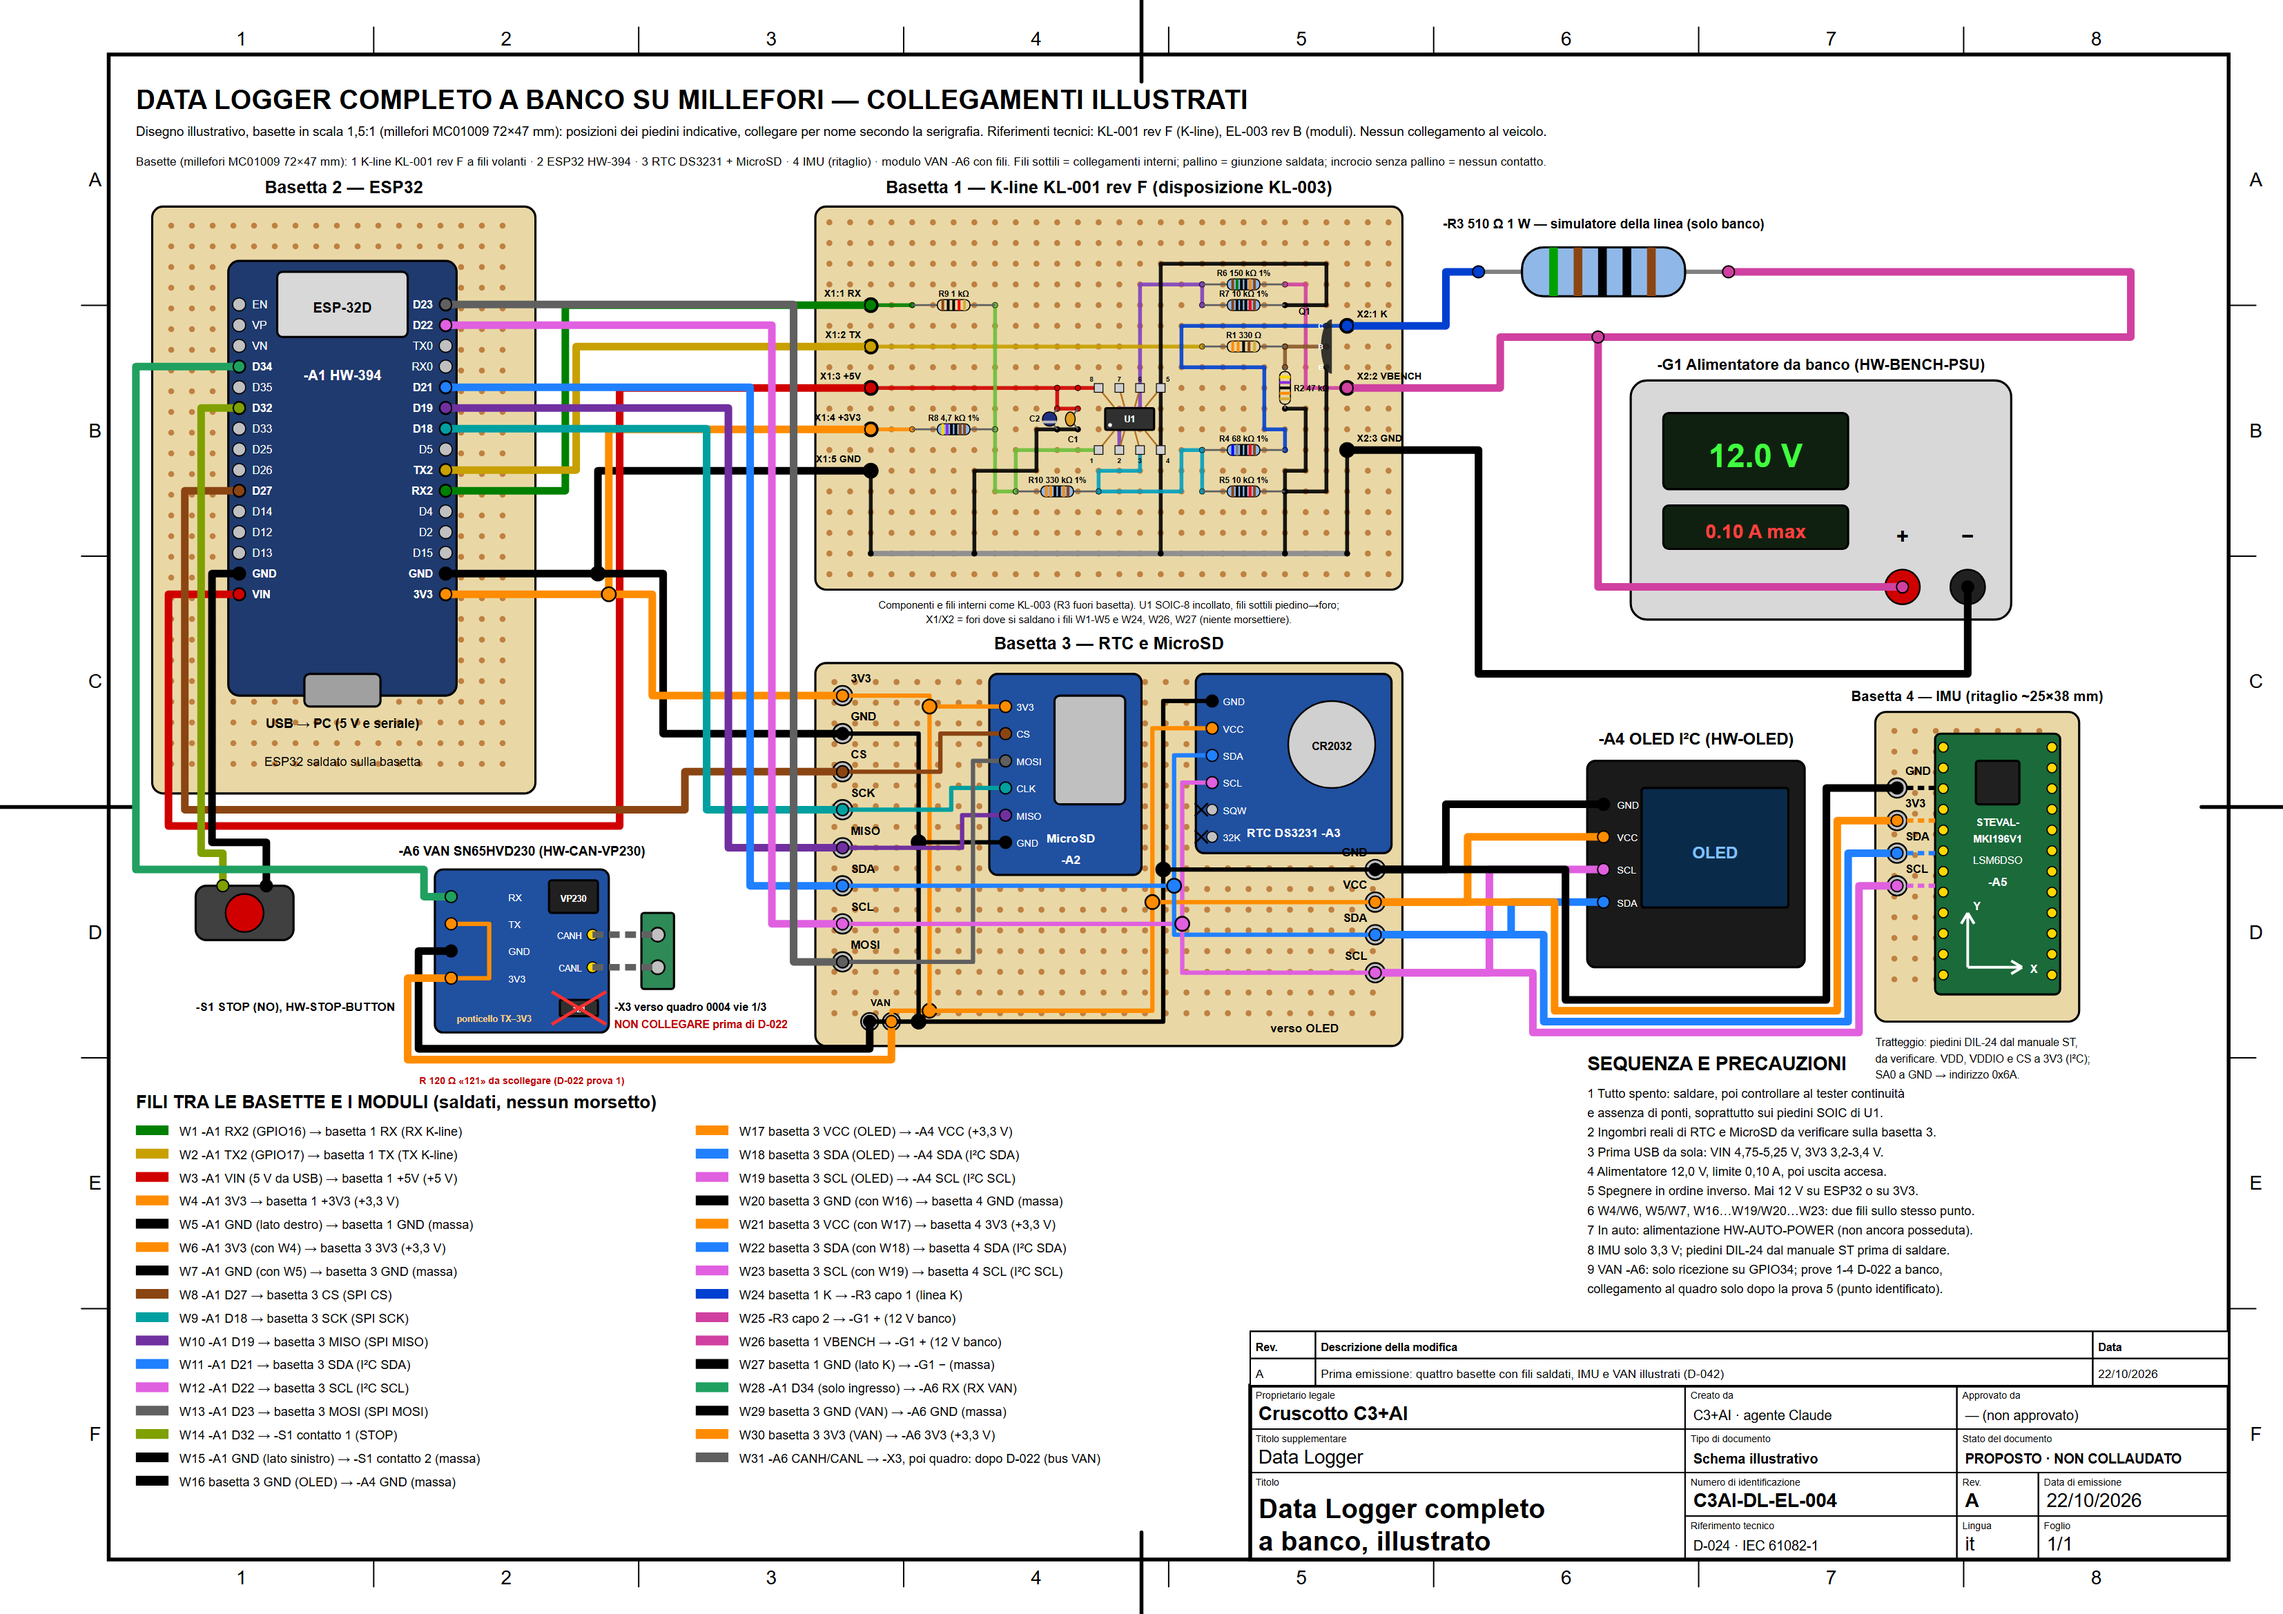
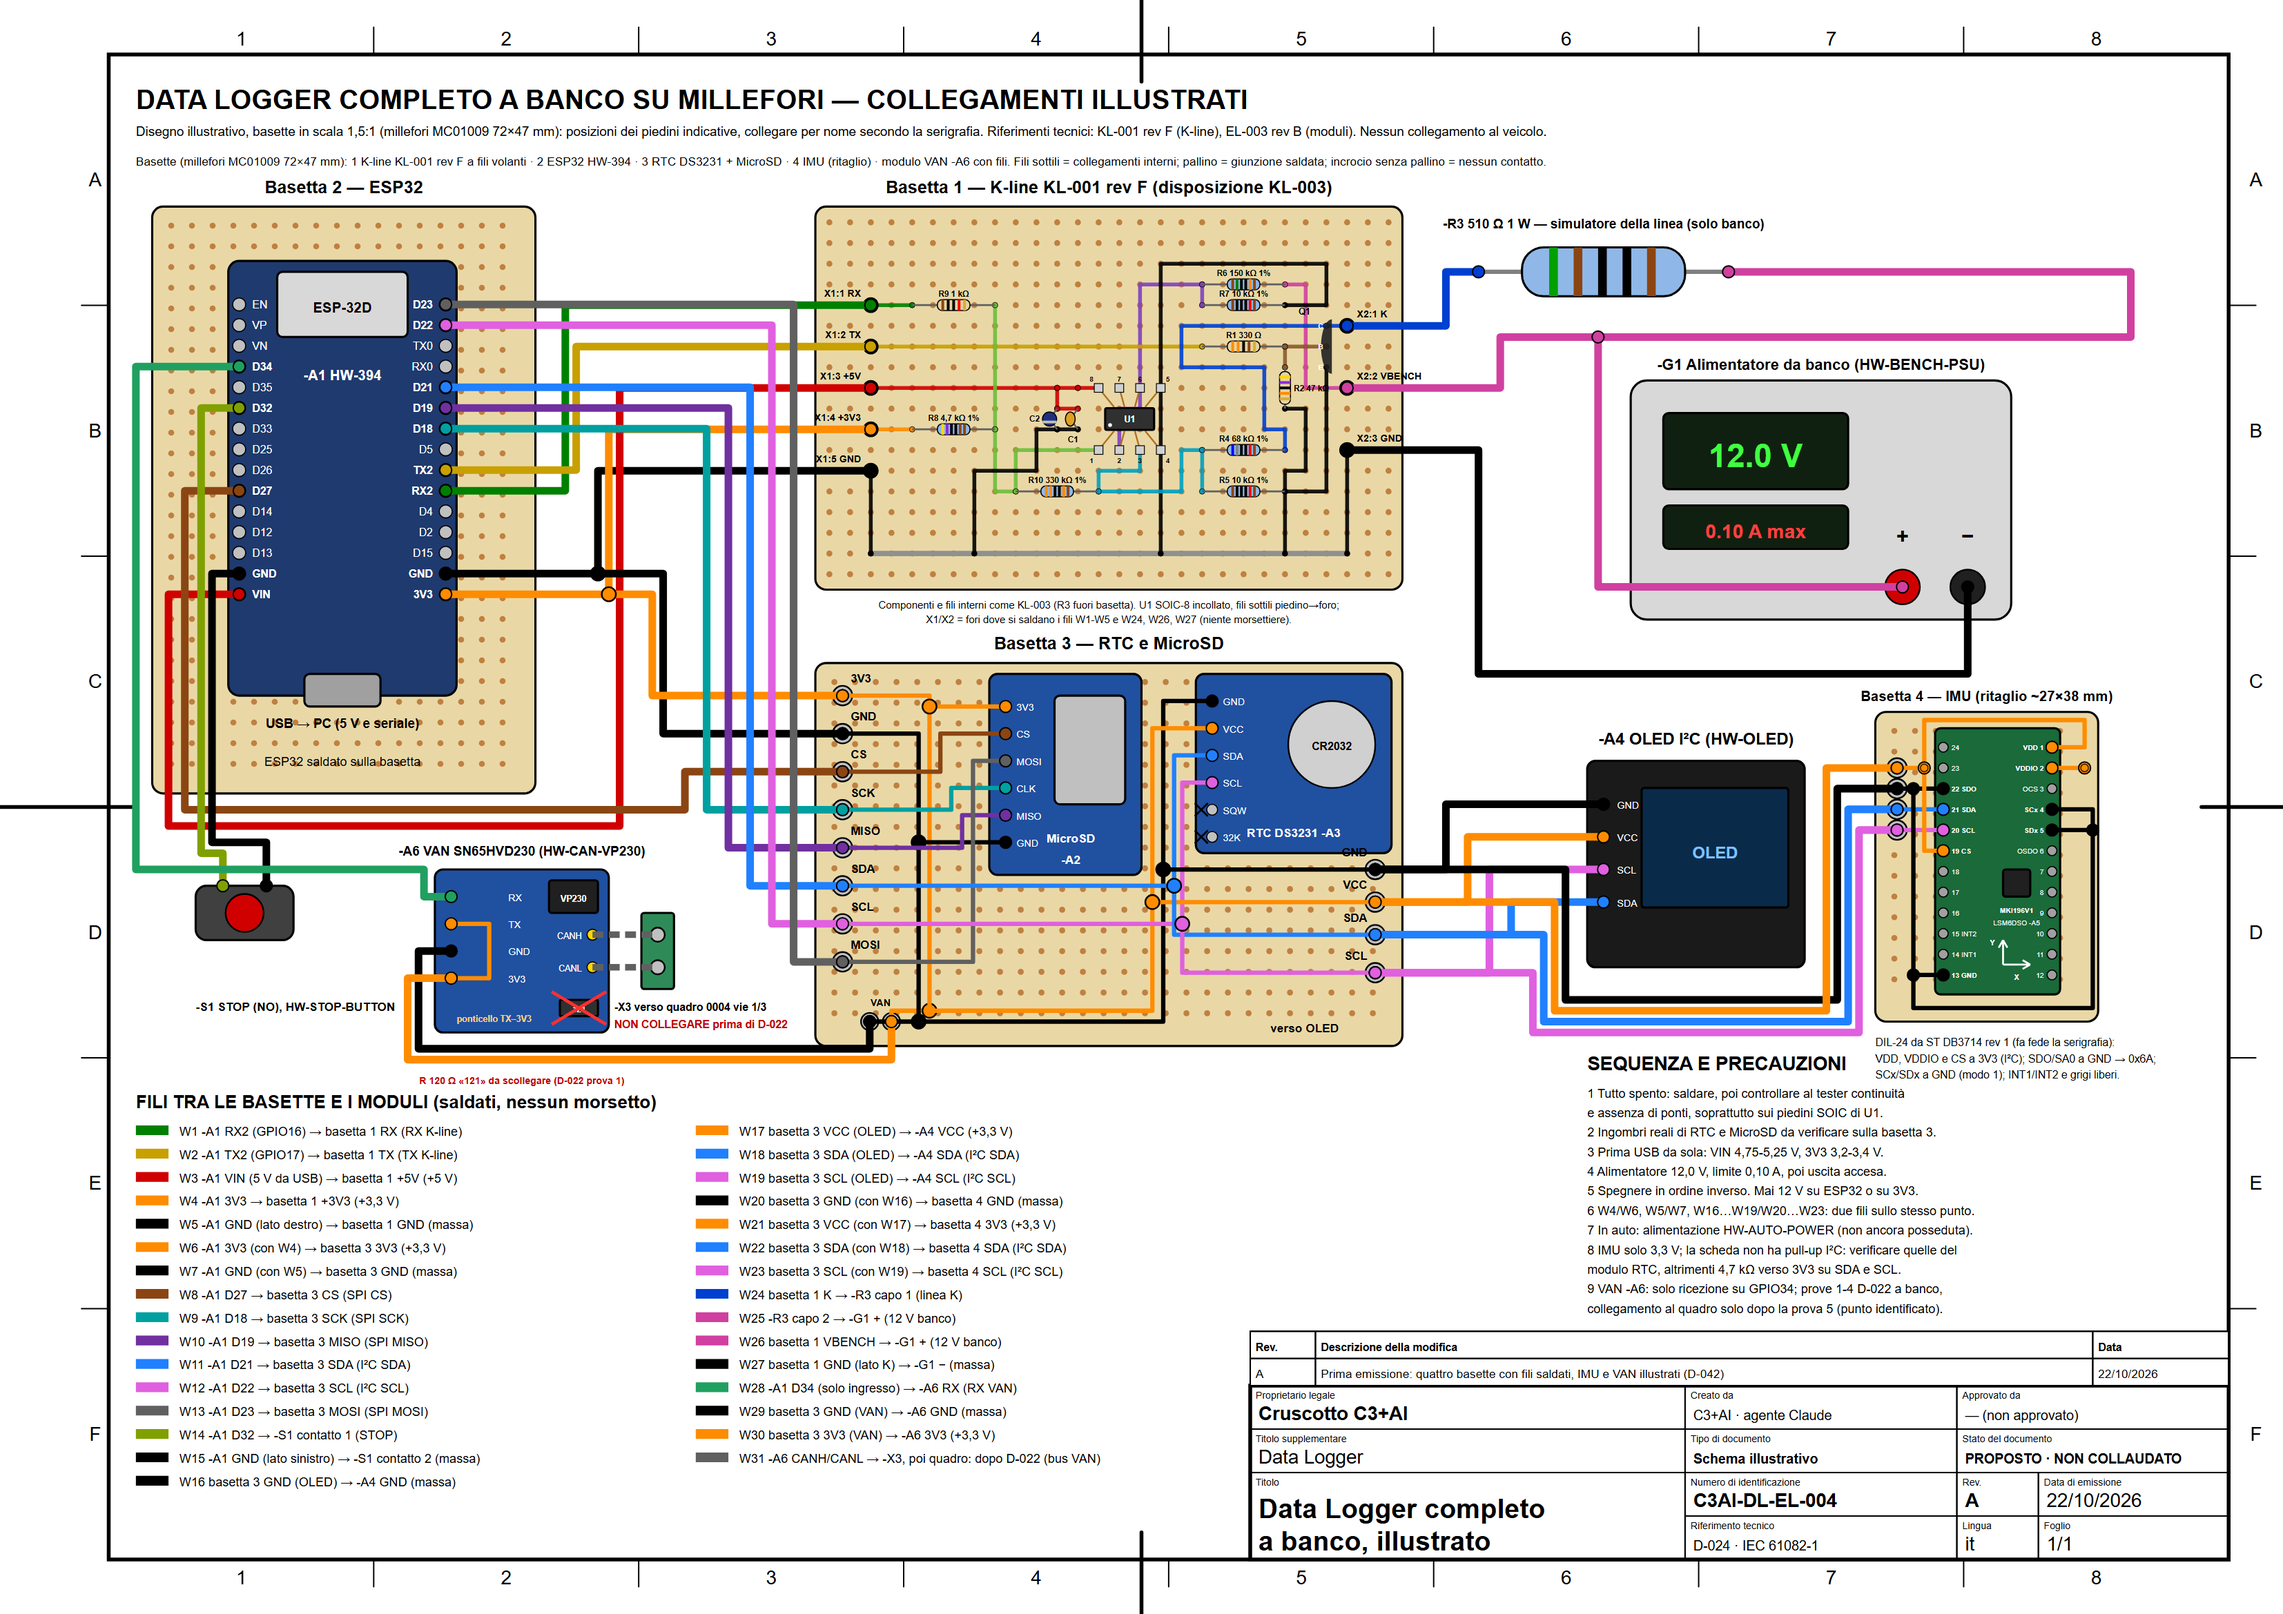
docs(data-logger): STEVAL-MKI196V1 DIL-24 pinout in DL-EL-004 and inventory
Pinout from ST DB3714 rev 1: VDD/VDDIO/CS to 3V3, SDO/SA0 to GND (0x6A), SCx/SDx to GND in mode 1, no I2C pull-ups on the adapter.

Changed region(s): [[0.7787, 0.4057, 0.9344, 0.6866], [0.6852, 0.749, 0.8409, 0.8115]]

diff --git a/tools/genera-logger-millefori-illustrato.py b/tools/genera-logger-millefori-illustrato.py
@@ -263,23 +263,45 @@ for i, n in enumerate(['GND', 'VCC', 'SCL', 'SDA']):
     oled[n] = (295, y)
 
 # --- Basetta 4: IMU su ritaglio di millefori ------------------------------------------
-perfboard(d, 345, 131, 37.5, 57, '')
-label(d, 363.75, 129, 'Basetta 4 — IMU (ritaglio ~25×38 mm)', 2.6, bold=True)
-box(d, 356, 135, 23, 48, '#1a6a3a', rx=1)
+# Piedinatura DIL-24 da ST DB3714 rev 1 (schema STEVAL-MKI196V1): JP1 1 VDD, 2 VDDIO, 3 OCS, 4 SCx,
+# 5 SDx, 6 OSDO, 7-12 liberi; JP2 13 GND, 14 INT1, 15 INT2, 16-18 non montati, 19 CS, 20 SCL,
+# 21 SDA, 22 SDO (= SA0), 23 libero, 24 non montato. Nessuna resistenza di pull-up sulla scheda.
+# Modo 1 (solo I²C): SDx e SCx a VDDIO o GND secondo ST, OCS e OSDO liberi (da riscontrare sul datasheet).
+perfboard(d, 345, 131, 41, 57, '')
+label(d, 365.5, 129, 'Basetta 4 — IMU (ritaglio ~27×38 mm)', 2.6, bold=True)
+box(d, 356, 134, 23, 49, '#1a6a3a', rx=1)
+DIL_L = [24, 23, 22, 21, 20, 19, 18, 17, 16, 15, 14, 13]
+DIL_R = list(range(1, 13))
+DIL_NAME = {1: 'VDD', 2: 'VDDIO', 3: 'OCS', 4: 'SCx', 5: 'SDx', 6: 'OSDO', 13: 'GND', 14: 'INT1', 15: 'INT2',
+            19: 'CS', 20: 'SCL', 21: 'SDA', 22: 'SDO'}
+USED = {1, 2, 4, 5, 13, 19, 20, 21, 22}
+dil = {}
 for j in range(12):
-    for xx in (357.5, 377.5):
-        d.raw(f'<circle cx="{xx}" cy="{137.5 + j * 3.81:.2f}" r="0.9" fill="#ffd700" stroke="#000" stroke-width="0.2"/>')
-box(d, 363.5, 140, 8, 8, '#202020', rx=0.5)
-label(d, 367.5, 152, 'STEVAL-', 1.9, bold=True, color='#ffffff'); label(d, 367.5, 155, 'MKI196V1', 1.9, bold=True, color='#ffffff')
-label(d, 367.5, 159, 'LSM6DSO', 1.9, color='#ffffff'); label(d, 367.5, 163, '-A5', 2.2, bold=True, color='#ffffff')
-d.raw('<path d="M362 178 h10 M372 178 l-2 -1.2 M372 178 l-2 1.2 M362 178 v-10 M362 168 l-1.2 2 M362 168 l1.2 2" stroke="#ffffff" stroke-width="0.5" fill="none"/>')
-label(d, 373.5, 179, 'X', 2, 'start', True, '#ffffff'); label(d, 363, 167.5, 'Y', 2, 'start', True, '#ffffff')
-imu = {n: pad(d, 349, y, t, 'L') for n, y, t in (('GND', 145, 'GND'), ('+3V3', 151, '3V3'), ('SDA', 157, 'SDA'), ('SCL', 163, 'SCL'))}
-for n, (x, y) in imu.items():
-    d.raw(f'<line x1="{x + 1.8:.2f}" y1="{y}" x2="356" y2="{y}" stroke="{C[n]}" stroke-width="0.8" stroke-dasharray="1.2 0.8"/>')
-d.text(345, 192.5, 'Tratteggio: piedini DIL-24 dal manuale ST,', 2.0)
-d.text(345, 195.5, 'da verificare. VDD, VDDIO e CS a 3V3 (I²C);', 2.0)
-d.text(345, 198.5, 'SA0 a GND → indirizzo 0x6A.', 2.0)
+    y = 137.5 + j * 3.81
+    for xx, pin, side in ((357.5, DIL_L[j], 'L'), (377.5, DIL_R[j], 'R')):
+        d.raw(f'<circle cx="{xx}" cy="{y:.2f}" r="0.9" fill="{"#ffd700" if pin in USED else "#a0a0a0"}" stroke="#000" stroke-width="0.2"/>')
+        name = DIL_NAME.get(pin, '')
+        label(d, xx + (1.5 if side == 'L' else -1.5), y + 0.5, f'{pin} {name}' if side == 'L' else f'{name} {pin}',
+              1.3, 'start' if side == 'L' else 'end', pin in USED, '#ffffff')
+        dil[pin] = (xx, y)
+box(d, 368.5, 160, 5, 5, '#202020', rx=0.5)
+label(d, 371, 168, 'MKI196V1', 1.3, bold=True, color='#ffffff'); label(d, 371, 170.3, 'LSM6DSO -A5', 1.3, color='#ffffff')
+d.raw('<path d="M368.5 177.5 h5 M373.5 177.5 l-1.4 -0.8 M373.5 177.5 l-1.4 0.8 M368.5 177.5 v-4.5 M368.5 173 l-0.8 1.4 M368.5 173 l0.8 1.4" stroke="#ffffff" stroke-width="0.35" fill="none"/>')
+label(d, 371, 180.3, 'X', 1.4, 'middle', True, '#ffffff'); label(d, 367, 174, 'Y', 1.4, 'end', True, '#ffffff')
+imu = {n: pad(d, 349, y, '', 'L') for n, y in (('+3V3', dil[2][1]), ('GND', dil[22][1]), ('SDA', dil[21][1]), ('SCL', dil[20][1]))}
+inner(d, 'SDA', [imu['SDA'], dil[21]])
+inner(d, 'SCL', [imu['SCL'], dil[20]])
+inner(d, 'GND', [imu['GND'], dil[22]])                                    # SDO = SA0 a massa: 0x6A
+inner(d, 'GND', [(352, dil[22][1]), (352, dil[13][1]), dil[13]])
+inner(d, 'GND', [(352, dil[13][1]), (352, 185.5), (385, 185.5), (385, dil[4][1]), dil[4]])     # SCx e SDx inutilizzati a GND
+inner(d, 'GND', [(385, dil[5][1]), dil[5]]); d.raw(f'<circle cx="385" cy="{dil[5][1]:.2f}" r="0.7" fill="#000"/>')
+d.raw(f'<circle cx="352" cy="{dil[22][1]:.2f}" r="0.7" fill="#000"/>')
+inner(d, '+3V3', [imu['+3V3'], (354, dil[2][1]), (354, dil[19][1]), dil[19]])  # CS a 3V3: modo I²C
+inner(d, '+3V3', [(354, dil[2][1]), (354, 132.5), (383.5, 132.5), (383.5, dil[1][1]), dil[1]]); d.raw(f'<circle cx="354" cy="{dil[2][1]:.2f}" r="0.7" fill="{C["+3V3"]}" stroke="#000" stroke-width="0.15"/>')
+inner(d, '+3V3', [(383.5, dil[2][1]), dil[2]]); d.raw(f'<circle cx="383.5" cy="{dil[2][1]:.2f}" r="0.7" fill="{C["+3V3"]}" stroke="#000" stroke-width="0.15"/>')
+d.text(345, 192.5, 'DIL-24 da ST DB3714 rev 1 (fa fede la serigrafia):', 2.0)
+d.text(345, 195.5, 'VDD, VDDIO e CS a 3V3 (I²C); SDO/SA0 a GND → 0x6A;', 2.0)
+d.text(345, 198.5, 'SCx/SDx a GND (modo 1); INT1/INT2 e grigi liberi.', 2.0)
 
 # --- R3 e alimentatore da banco ------------------------------------------------------
 d.raw('<line x1="272" y1="50" x2="318" y2="50" stroke="#808080" stroke-width="0.8"/>')
@@ -353,10 +375,10 @@ wire(d, 'GND', [o_pad['GND'], (266, 160), (266, 148), oled['GND']])
 wire(d, '+3V3', [o_pad['+3V3'], (270, 166), (270, 154), oled['VCC']])
 wire(d, 'SDA', [o_pad['SDA'], (278, 172), (278, 166), oled['SDA']])
 wire(d, 'SCL', [o_pad['SCL'], (274, 179), (274, 160), oled['SCL']])
-wire(d, 'GND', [o_pad['GND'], (288, 160), (288, 184), (336, 184), (336, 145), imu['GND']])
-wire(d, '+3V3', [o_pad['+3V3'], (286, 166), (286, 186), (338, 186), (338, 151), imu['+3V3']])
-wire(d, 'SDA', [o_pad['SDA'], (284, 172), (284, 188), (340, 188), (340, 157), imu['SDA']])
-wire(d, 'SCL', [o_pad['SCL'], (282, 179), (282, 190), (342, 190), (342, 163), imu['SCL']])
+wire(d, 'GND', [o_pad['GND'], (288, 160), (288, 184), (338, 184), (338, imu['GND'][1]), imu['GND']])
+wire(d, '+3V3', [o_pad['+3V3'], (286, 166), (286, 186), (336, 186), (336, imu['+3V3'][1]), imu['+3V3']])
+wire(d, 'SDA', [o_pad['SDA'], (284, 172), (284, 188), (340, 188), (340, imu['SDA'][1]), imu['SDA']])
+wire(d, 'SCL', [o_pad['SCL'], (282, 179), (282, 190), (342, 190), (342, imu['SCL'][1]), imu['SCL']])
 wire(d, 'K', [kr['K'], (266, kr['K'][1]), (266, 50), (272, 50)])
 wire(d, 'VBENCH', [(318, 50), (392, 50), (392, 62), (294, 62), (294, plus[1]), plus])
 wire(d, 'VBENCH', [kr['VBENCH'], (276, kr['VBENCH'][1]), (276, 62), (293.99, 62)])
@@ -412,7 +434,8 @@ d.notes(292, 197, 'SEQUENZA E PRECAUZIONI', [
     '5 Spegnere in ordine inverso. Mai 12 V su ESP32 o su 3V3.',
     '6 W4/W6, W5/W7, W16…W19/W20…W23: due fili sullo stesso punto.',
     '7 In auto: alimentazione HW-AUTO-POWER (non ancora posseduta).',
-    '8 IMU solo 3,3 V; piedini DIL-24 dal manuale ST prima di saldare.',
+    '8 IMU solo 3,3 V; la scheda non ha pull-up I²C: verificare quelle del',
+    '  modulo RTC, altrimenti 4,7 kΩ verso 3V3 su SDA e SCL.',
     '9 VAN -A6: solo ricezione su GPIO34; prove 1-4 D-022 a banco,',
     '  collegamento al quadro solo dopo la prova 5 (punto identificato).',
 ], h=2.3, step=3.6)

diff --git a/data-logger/docs/hardware-inventory.md b/data-logger/docs/hardware-inventory.md
@@ -259,8 +259,8 @@ Le decisioni definitive restano nel [README principale](../../README.md#decision
 **Da verificare:**
 
 - All'arrivo: riscontrare sigla STEVAL-MKI196V1 e marcatura del chip; foto da archiviare.
-- Piedinatura DIL-24, alimentazione VDD/VDDIO (1,71-3,6 V: solo 3,3 V, nessun regolatore dichiarato) e piedini SDO/SA0 e CS da verificare sul manuale ST della scheda prima del collegamento.
-- Indirizzo I2C atteso 0x6A (SA0 a GND) o 0x6B (SA0 a 3,3 V); CS a 3,3 V per il modo I2C. Nessun conflitto atteso con RTC 0x68, EEPROM 0x57, OLED 0x3C. Resistenze di pull-up I2C sulla scheda da verificare (il bus del logger ha già quelle del modulo RTC, da riscontrare).
+- Piedinatura DIL-24 ricavata da ST DB3714 rev 1 (schema STEVAL-MKI196V1, 22/10/2026): 1 VDD, 2 VDDIO, 3 OCS, 4 SCx, 5 SDx, 6 OSDO, 13 GND, 14 INT1, 15 INT2, 19 CS, 20 SCL, 21 SDA, 22 SDO/SA0; 7-12 e 23 liberi, 16-18 e 24 con resistenze non montate. Condensatori 100 nF su VDD e VDDIO presenti, nessuna pull-up I2C sulla scheda. Da riscontrare sulla serigrafia all'arrivo. Alimentazione 1,71-3,6 V: solo 3,3 V.
+- Indirizzo I2C 0x6A con SDO/SA0 (piedino 22) a GND; CS (19) a 3,3 V per il modo I2C. SCx/SDx (4/5) a GND in modo 1 secondo ST (riscontrare sulla tabella dei piedini del datasheet LSM6DSO), OCS e OSDO liberi. Pull-up SDA/SCL: verificare quelle del modulo RTC, altrimenti 4,7 kohm verso 3,3 V. Nessun conflitto atteso con RTC 0x68, EEPROM 0x57, OLED 0x3C.
 - Collegamento proposto: bus I2C HW-394 GPIO21/22 su ritaglio di millefori (basetta 4, tavola C3AI-DL-EL-004 rev A, D-042), non verificato. Fissaggio rigido e orientamento assi da definire; stesso sensore e montaggio tra raccolta dati e cruscotto (D-033).
 - Temperatura di esercizio del chip -40...+85 °C: per la scheda madre definitiva valutare la famiglia industriale ISM330 (-40...+105 °C), con lo stesso chip anche nel logger (D-033).
 
